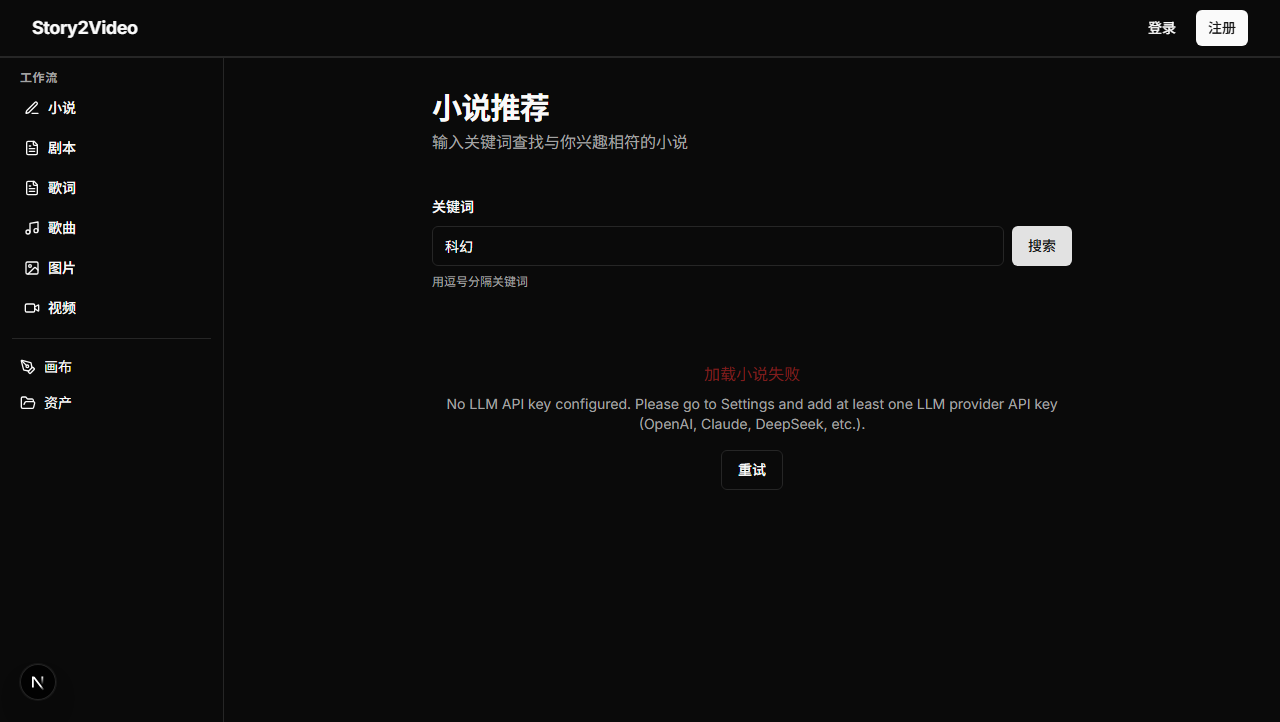
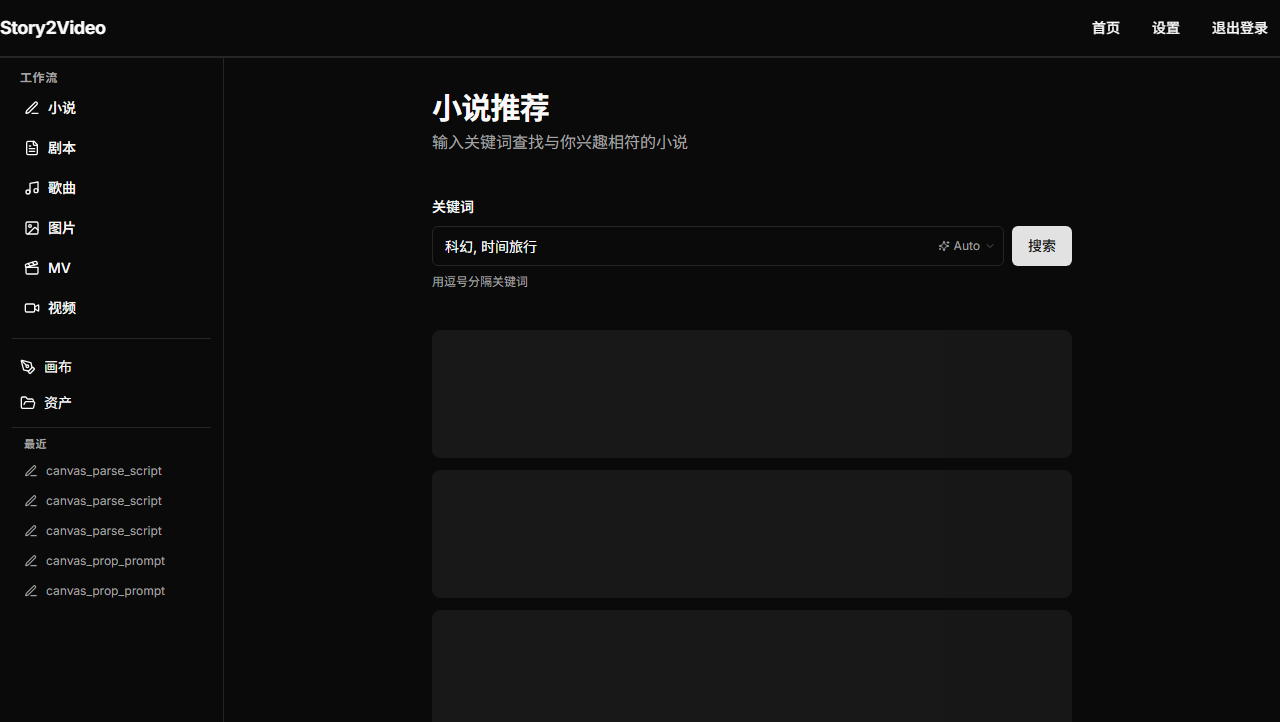
Add novel workflow test scripts and search result screenshots
- test_novel.py: automated E2E test for novel search workflow
- inspect_novel.py: page element inspector for debugging
- check_db.py: password hash verification helper

diff --git a/scripts/test_novel.py b/scripts/test_novel.py
@@ -1,0 +1,102 @@
+from playwright.sync_api import sync_playwright
+import time, json, sys
+
+BASE_URL = "http://103.233.253.246:3000"
+RESULTS = {"pass": 0, "fail": 0, "skip": 0}
+
+def report(step, status, msg):
+    tag = {"pass": "PASS", "fail": "FAIL", "skip": "SKIP", "info": "INFO"}[status]
+    RESULTS[status] = RESULTS.get(status, 0) + 1
+    print(f"[{tag}] {step}: {msg}")
+
+with sync_playwright() as p:
+    browser = p.chromium.launch(headless=True)
+    page = browser.new_page(viewport={"width": 1280, "height": 720})
+    page.set_default_timeout(15000)
+
+    # ── 1. Login ──
+    page.goto(f"{BASE_URL}/auth/login")
+    page.wait_for_load_state("networkidle")
+    page.get_by_label('邮箱').fill('test@test.com')
+    page.get_by_label('密码').fill('1qaz2xsw')
+    page.locator('button[type="submit"]').click()
+    time.sleep(4)
+    page.wait_for_load_state("networkidle")
+
+    auth = page.evaluate("""() => {
+        const v = localStorage.getItem('auth-storage');
+        return v ? JSON.parse(v).state : null
+    }""")
+    if auth and auth.get('isAuthenticated'):
+        report("Login", "pass", f"user={auth['user']['email']}")
+    else:
+        report("Login", "fail", "authentication failed")
+        browser.close()
+        sys.exit(1)
+
+    # ── 2. Navigate to novel ──
+    page.goto(f"{BASE_URL}/workflow/novel")
+    page.wait_for_load_state("networkidle")
+    time.sleep(2)
+    report("Navigate", "pass", f"URL={page.url}")
+
+    # ── 3. Fill keywords ──
+    kw_input = page.locator('input').first
+    if kw_input.is_visible():
+        kw_input.fill('科幻, 时间旅行')
+        time.sleep(0.5)
+        report("Fill keywords", "pass", "科幻, 时间旅行")
+    else:
+        report("Fill keywords", "fail", "input not found")
+
+    # ── 4. Click search ──
+    search_btn = page.locator('button:has-text("搜索")')
+    if search_btn.count() > 0 and search_btn.is_visible():
+        search_btn.click()
+        report("Search click", "pass", "")
+    else:
+        report("Search click", "fail", "button not found")
+
+    # ── 5. Wait for LLM response (may take 10-30s) ──
+    print("\n[WAIT] Waiting for LLM search results...")
+    # Wait for either results to appear or timeout
+    try:
+        page.wait_for_selector('text=小说推荐', timeout=45000)
+        report("LLM response", "pass", "小说推荐 section appeared")
+    except:
+        report("LLM response", "info", "小说推荐 not found, checking page state")
+
+    time.sleep(3)
+    page.screenshot(path='novel_search_result.png', full_page=True)
+
+    # ── 6. Verify results ──
+    body_text = page.inner_text('body').lower()
+    novel_keywords = ['小说', '推荐', '三体', '科幻', '作者', '评分']
+    found = [kw for kw in novel_keywords if kw in body_text]
+    report("Results check", "pass", f"found keywords: {found}")
+
+    if 'error' in body_text or '失败' in body_text:
+        report("Errors", "fail", "error/d失败 found in page")
+    else:
+        report("Errors", "pass", "no error indicators")
+
+    # Check backend logs for 500s
+    print("\n[INFO] Check server logs for errors during this test")
+
+    # ── 7. Test again with different keywords ──
+    report("Re-test", "info", "clearing and re-searching")
+    kw_input.fill('修仙, 玄幻')
+    time.sleep(0.5)
+    search_btn.click()
+    time.sleep(10)
+    page.wait_for_load_state("networkidle")
+    time.sleep(3)
+    page.screenshot(path='novel_search_result2.png', full_page=True)
+    report("Re-test", "pass", "second search completed")
+
+    # ── Summary ──
+    print(f"\n{'='*50}")
+    print(f"RESULTS: {RESULTS['pass']} pass, {RESULTS['fail']} fail, {RESULTS['skip']} skip")
+    print(f"{'='*50}")
+
+    browser.close()

diff --git a/scripts/inspect_novel.py b/scripts/inspect_novel.py
@@ -1,0 +1,61 @@
+from playwright.sync_api import sync_playwright
+import time
+
+BASE_URL = "http://103.233.253.246:3000"
+
+with sync_playwright() as p:
+    browser = p.chromium.launch(headless=True)
+    page = browser.new_page(viewport={"width": 1280, "height": 720})
+
+    # 1. Login
+    page.goto(f"{BASE_URL}/auth/login")
+    page.wait_for_load_state("networkidle")
+    time.sleep(1)
+
+    page.get_by_label('邮箱').fill('test@test.com')
+    page.get_by_label('密码').fill('1qaz2xsw')
+    page.locator('button[type="submit"]').click()
+    time.sleep(3)
+    page.wait_for_load_state("networkidle")
+    time.sleep(1)
+    print(f"[LOGIN] URL: {page.url}")
+
+    # 2. Navigate to novel workflow
+    page.goto(f"{BASE_URL}/workflow/novel")
+    page.wait_for_load_state("networkidle")
+    time.sleep(2)
+    print(f"[NOVEL] URL: {page.url}")
+
+    # 3. Screenshot for debugging
+    page.screenshot(path='novel_page.png', full_page=True)
+    print("[SCREENSHOT] novel_page.png saved")
+
+    # 4. Inspect page elements
+    inputs = page.locator('input, textarea').all()
+    print(f"[INPUTS] Found {len(inputs)} inputs")
+    for inp in inputs:
+        ph = inp.get_attribute('placeholder') or ''
+        type_ = inp.get_attribute('type') or ''
+        tag = inp.evaluate('el => el.tagName').lower()
+        visible = inp.is_visible()
+        print(f"  {tag} type={type_} placeholder='{ph}' visible={visible}")
+
+    buttons = page.locator('button').all()
+    btn_texts = []
+    for btn in buttons:
+        text = (btn.text_content() or '').strip()
+        visible = btn.is_visible()
+        btn_texts.append((text, visible))
+        print(f"  button '{text}' visible={visible}")
+
+    # 5. Try to find keyword input and search button
+    keyword_input = page.get_by_placeholder('keywords') or page.locator('input[placeholder*="关键词"]')
+    print(f"\n[KEYWORD] found: {keyword_input.count()}")
+
+    # Inspect the model selector
+    selectors = page.locator('select').all()
+    print(f"[SELECTS] Found {len(selectors)}")
+    for sel in selectors:
+        print(f"  select visible={sel.is_visible()}")
+
+    browser.close()

diff --git a/scripts/check_db.py b/scripts/check_db.py
@@ -1,0 +1,8 @@
+import paramiko
+c = paramiko.SSHClient()
+c.set_missing_host_key_policy(paramiko.AutoAddPolicy())
+c.connect('103.233.253.246', username='root', password='xtgbKJUD0671')
+cmd = "PGPASSWORD=REPLACE_WITH_YOUR_OWN_PASSWORD_12345 docker exec story2video-postgres-1 psql -U story2video -t -A -c \"SELECT length(password_hash), substring(password_hash,1,60) FROM users WHERE email='test@test.com'\""
+i, o, e = c.exec_command(cmd)
+print(o.read().decode('utf-8', errors='replace'))
+c.close()
